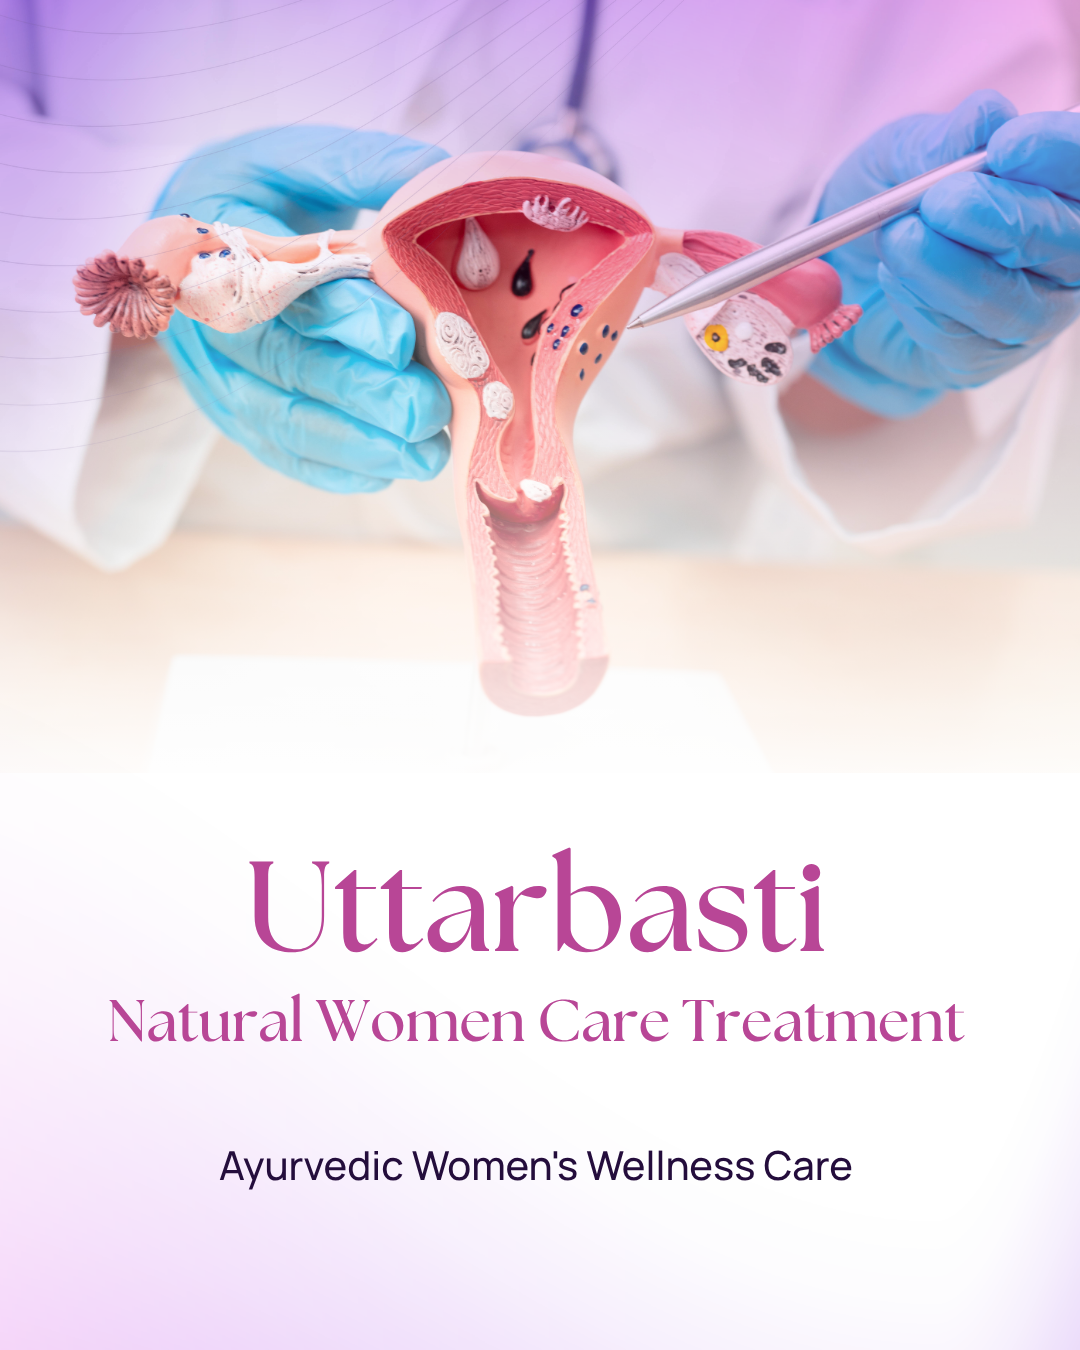
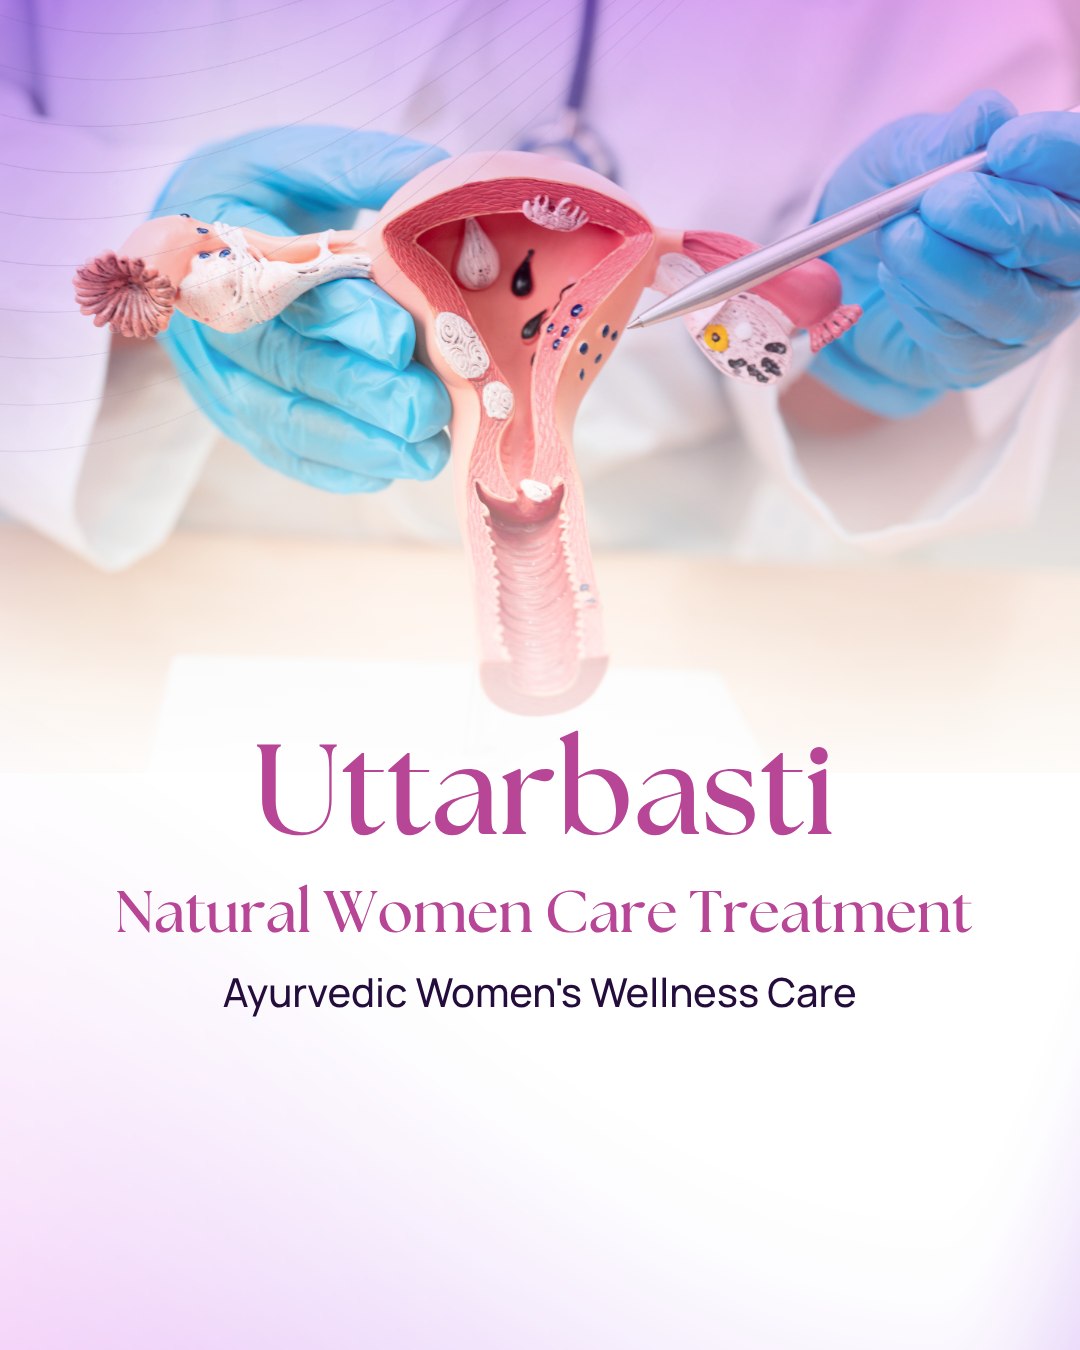
Updated now

Changed region(s): [[0.0917, 0.5289, 0.9167, 0.7778], [0.2139, 0.84, 0.7944, 0.8711]]

diff --git a/app/page.tsx b/app/page.tsx
@@ -89,14 +89,14 @@ const faqs = [
 ];
 
 const galleryImages = [
-  { src: "/images/gallery-reception.jpg", alt: "SNDH Care Reception Area" },
-  { src: "/images/gallery-consultation.jpg", alt: "Consultation Room" },
-  { src: "/images/gallery-therapy.jpg", alt: "Therapy Room" },
-  { src: "/images/gallery-panchakarma.jpg", alt: "Panchakarma Setup" },
-  { src: "/images/gallery-lounge.jpg", alt: "Waiting Lounge" },
-  { src: "/images/gallery-team.jpg", alt: "Our Team" },
-  { src: "/images/gallery-herbs.jpg", alt: "Ayurvedic Herbs" },
-  { src: "/images/gallery-clinic.jpg", alt: "SNDH Care Clinic" },
+  { src: "/images/gallery1.jpg", alt: "SNDH Care Reception Area" },
+  { src: "/images/gallery2.jpg", alt: "Consultation Room" },
+  { src: "/images/gallery3.jpg", alt: "Therapy Room" },
+  { src: "/images/gallery4.jpg", alt: "Panchakarma Setup" },
+  { src: "/images/gallery5.jpg", alt: "Waiting Lounge" },
+  { src: "/images/gallery6.jpg", alt: "Our Team" },
+  { src: "/images/gallery7.jpg", alt: "Ayurvedic Herbs" },
+  { src: "/images/gallery8.jpg", alt: "SNDH Care Clinic" },
 ];
 
 const doctors = [
@@ -138,18 +138,21 @@ export default function UttarBastiPage() {
       <main className={styles.main}>
 
         {/* ===== SECTION 1: HERO ===== */}
-<section className={styles.hero} aria-label="Hero">
-  <div className={styles.heroInner}>
-    <picture>
-      <source media="(max-width: 600px)" srcSet="/images/HeroSNDHMobileUI.png" />
-      <img
-        src="/images/HeroSNDH.png"
-        alt="SNDH Care Ayurvedic Wellness"
-        className={styles.heroImg}
-      />
-    </picture>
-  </div>
-</section>
+          <section className={styles.hero} aria-label="Hero">
+            <div className={styles.heroInner}>
+              <picture>
+                <source media="(max-width: 600px)" srcSet="/images/HeroSNDHMobileUI.png" />
+                <img
+                  src="/images/HeroSNDH.png"
+                  alt="SNDH Care Ayurvedic Wellness"
+                  className={styles.heroImg}
+                />
+              </picture>
+              <a href="#lead-form" className={styles.heroCta}>
+                Book Day Care
+              </a>
+            </div>
+          </section>
         {/* ===== SECTION 2: ABOUT ===== */}
         <section className={styles.aboutSection} id="about" aria-labelledby="about-heading">
           <div className={styles.container}>
@@ -386,7 +389,7 @@ export default function UttarBastiPage() {
         </section>
 
         {/* ===== SECTION 9: LEAD BLOCK ===== */}
-        <section className={`${styles.leadSection} ${styles.pinkBg}`} aria-label="Book Consultation">
+        <section id="lead-form" className={`${styles.leadSection} ${styles.pinkBg}`} aria-label="Book Consultation">
           <div className={styles.container}>
             <div className={styles.leadInner}>
               <div className={styles.leadText}>
@@ -395,7 +398,7 @@ export default function UttarBastiPage() {
                   Take the first step towards your wellness journey. Our doctors will assess your individual
                   needs and design a personalized care plan for you.
                 </p>
-                <a href="https://wa.me/917230074009" className={styles.btnWhatsapp} target="_blank" rel="noopener noreferrer">
+                <a href="https://wa.me/917230074009?text=Hi, I wanted to know more about uttarbasti treatment and day care booking" className={styles.btnWhatsapp} target="_blank" rel="noopener noreferrer">
                   {whatsappSvg} WhatsApp Now
                 </a>
               </div>

diff --git a/app/page.module.css b/app/page.module.css
@@ -110,7 +110,7 @@
   height: 60px;
 }
 .logoLink { display: flex; align-items: center; }
-.logoImg { height: 40px; width: auto; }
+.logoImg { height: 70px; width: auto; }
 
 /* ===== SECTION 1: HERO ===== */
 .hero {
@@ -121,6 +121,7 @@
   margin: 0;
 }
 .heroInner {
+  position: relative;
   display: block;
   overflow: hidden;
   width: 100%;
@@ -130,7 +131,6 @@
 .heroInner picture {
   display: block;
   width: 103%;
-  overflow: hidden;
   line-height: 0;
   font-size: 0;
 }
@@ -138,8 +138,29 @@
   width: 100%;
   height: 620px;
   display: block;
-  border-radius: 0;
   object-fit: cover;
+}
+.heroCta {
+  position: absolute;
+  bottom: 12%;
+  left: 16%;
+  background: var(--pink-hot);
+  color: var(--white);
+  font-weight: 600;
+  font-size: 1rem;
+  padding: 0.85rem 2rem;
+  border-radius: 50px;
+  text-decoration: none;
+  box-shadow: 0 4px 16px rgba(212, 0, 122, 0.4);
+  transition: background 0.2s, transform 0.15s, box-shadow 0.2s;
+  z-index: 10;
+  line-height: 1.2;
+  font-size: 1rem;
+}
+.heroCta:hover {
+  background: #b8006a;
+  transform: translateY(-2px);
+  box-shadow: 0 8px 24px rgba(212, 0, 122, 0.5);
 }
 
 @media (max-width: 600px) {
@@ -159,6 +180,18 @@
     display: block;
     margin: 0 !important;
     padding: 0 !important;
+  }
+  .heroCta {
+    left: 50%;
+    right: auto;
+    transform: translateX(-50%);
+    bottom: 8%;
+    white-space: nowrap;
+    font-size: 1rem;
+    line-height: 1.2;
+  }
+  .heroCta:hover {
+    transform: translateX(-50%) translateY(-2px);
   }
 }
 .main {
@@ -382,7 +415,11 @@
   display: none;
 }
 
-@media (max-width: 900px) {
+@media (max-width: 600px) {
+  .imageLeftSection {
+    padding: 0;
+  }
+
   .imageLeftImgDesktop {
     display: none;
   }
@@ -393,7 +430,7 @@
     height: auto;
     max-height: unset;
     object-fit: contain;
-    margin-left: 0;
+    margin-left: -5px;
     margin-right: 0;
   }
 }
@@ -481,7 +518,7 @@
 }
 .doctorImgWrap {
   width: 100%;
-  height: 260px;
+  height: 310px;
   overflow: hidden;
 }
 .doctorImg {
